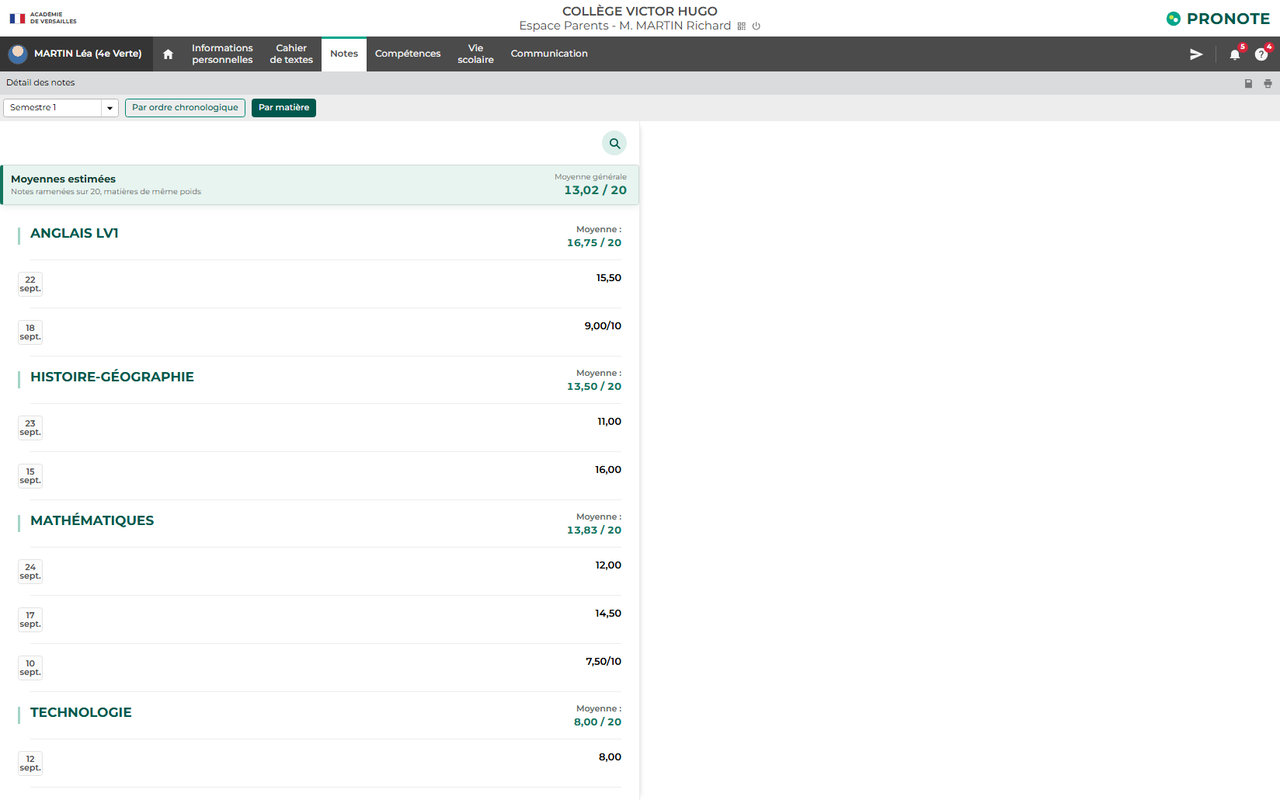
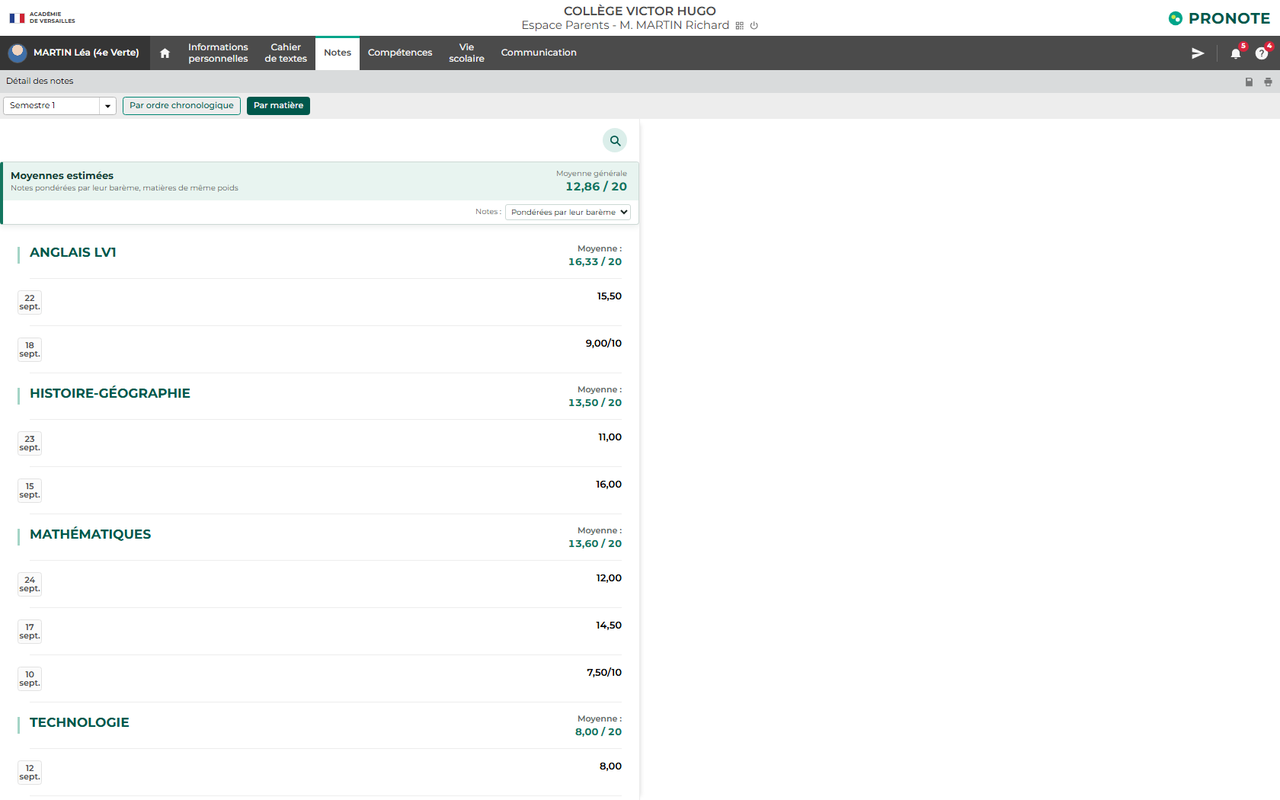
Ajoute le choix de ponderation des notes et passe en 3.0.0

diff --git a/extension/content.js b/extension/content.js
@@ -3,6 +3,9 @@
 
   const ROOT_ID = "pronote-moyennes-extension";
   const INLINE_AVERAGE_CLASS = "pm-inline-average";
+  const WEIGHTING_KEY = "pronote-moyennes.ponderation";
+  const BY_SCALE = "bareme";
+  const EQUAL = "egal";
   const NOTE_LABEL_PATTERN = /Note\s+(?:de\s+l['’])?élève\s*:\s*([0-9]+(?:[,.][0-9]+)?)(?:\s*\/\s*([0-9]+(?:[,.][0-9]+)?))?/i;
   const numberFormatter = new Intl.NumberFormat("fr-FR", {
     minimumFractionDigits: 2,
@@ -11,6 +14,34 @@
 
   let lastSignature = "";
   let refreshTimer = 0;
+
+  // Stockage sur l'origine PRONOTE : evite de demander la permission "storage".
+  function readWeighting() {
+    try {
+      return localStorage.getItem(WEIGHTING_KEY) === EQUAL ? EQUAL : BY_SCALE;
+    } catch {
+      return BY_SCALE;
+    }
+  }
+
+  function writeWeighting(mode) {
+    try {
+      localStorage.setItem(WEIGHTING_KEY, mode);
+    } catch {
+      // Stockage indisponible : le choix vaut pour la session en cours.
+    }
+  }
+
+  function averageOf(notes, mode) {
+    if (mode === EQUAL) {
+      const sum = notes.reduce((total, note) => total + (note.value / note.scale) * 20, 0);
+      return sum / notes.length;
+    }
+
+    const totalValue = notes.reduce((total, note) => total + note.value, 0);
+    const totalScale = notes.reduce((total, note) => total + note.scale, 0);
+    return (totalValue / totalScale) * 20;
+  }
 
   function isVisible(element) {
     const style = getComputedStyle(element);
@@ -70,15 +101,11 @@
       }
 
       const notes = notesBySubject.get(subject) || [];
-      notes.push((value / scale) * 20);
+      notes.push({ value, scale });
       notesBySubject.set(subject, notes);
     }
 
-    return Array.from(notesBySubject, ([subject, notes]) => ({
-      subject,
-      noteCount: notes.length,
-      average: notes.reduce((sum, note) => sum + note, 0) / notes.length,
-    }));
+    return Array.from(notesBySubject, ([subject, notes]) => ({ subject, notes }));
   }
 
   function formatAverage(value) {
@@ -96,7 +123,30 @@
     return element;
   }
 
-  function buildPanel(subjects, generalAverage, showSubjectList) {
+  function buildModeRow(mode, onChange) {
+    const row = createElement("div", "pm-options");
+    const select = createElement("select", "pm-mode-select");
+    select.id = "pm-mode-select";
+
+    for (const [value, text] of [
+      [BY_SCALE, "Pondérées par leur barème"],
+      [EQUAL, "Toutes à poids égal"],
+    ]) {
+      const option = createElement("option", "", text);
+      option.value = value;
+      select.append(option);
+    }
+
+    select.value = mode;
+    select.addEventListener("change", () => onChange(select.value));
+
+    const label = createElement("label", "pm-mode-label", "Notes :");
+    label.htmlFor = select.id;
+    row.append(label, select);
+    return row;
+  }
+
+  function buildPanel(subjects, generalAverage, showSubjectList, mode, onModeChange) {
     const panel = createElement("section", "pm-panel");
     panel.id = ROOT_ID;
     panel.setAttribute("aria-label", "Moyennes estimées");
@@ -109,7 +159,9 @@
       createElement(
         "p",
         "pm-subtitle",
-        "Notes ramenées sur 20, matières de même poids",
+        mode === EQUAL
+          ? "Notes ramenées sur 20, matières de même poids"
+          : "Notes pondérées par leur barème, matières de même poids",
       ),
     );
 
@@ -120,7 +172,7 @@
     );
     header.append(headingGroup, general);
 
-    panel.append(header);
+    panel.append(header, buildModeRow(mode, onModeChange));
 
     if (showSubjectList) {
       const list = createElement("div", "pm-list");
@@ -194,6 +246,13 @@
     lastSignature = "";
   }
 
+  function changeWeighting(mode) {
+    writeWeighting(mode);
+    lastSignature = "";
+    refresh();
+    document.getElementById("pm-mode-select")?.focus();
+  }
+
   function refresh() {
     const tree = findNotesTree();
     if (!tree) {
@@ -201,18 +260,30 @@
       return;
     }
 
-    const subjects = parseVisibleNotes(tree);
-    if (subjects.length === 0) {
+    const parsed = parseVisibleNotes(tree);
+    if (parsed.length === 0) {
       removePanel();
       return;
     }
+
+    const mode = readWeighting();
+    const subjects = parsed.map(({ subject, notes }) => ({
+      subject,
+      noteCount: notes.length,
+      average: averageOf(notes, mode),
+    }));
 
     const generalAverage =
       subjects.reduce((sum, item) => sum + item.average, 0) / subjects.length;
     const isSubjectView = Boolean(
       tree.querySelector('[role="treeitem"][aria-level="1"]'),
     );
-    const signature = JSON.stringify({ subjects, generalAverage, isSubjectView });
+    const signature = JSON.stringify({
+      subjects,
+      generalAverage,
+      isSubjectView,
+      mode,
+    });
     const existingPanel = document.getElementById(ROOT_ID);
     const inlineAverageCount = tree.querySelectorAll(
       `.${INLINE_AVERAGE_CLASS}`,
@@ -231,7 +302,13 @@
     } else {
       removeInlineAverages();
     }
-    const panel = buildPanel(subjects, generalAverage, !isSubjectView);
+    const panel = buildPanel(
+      subjects,
+      generalAverage,
+      !isSubjectView,
+      mode,
+      changeWeighting,
+    );
     const insertionPoint = tree.parentElement || document.querySelector("main");
     insertionPoint?.prepend(panel);
     lastSignature = signature;

diff --git a/extension/content.css b/extension/content.css
@@ -73,6 +73,37 @@
   white-space: nowrap;
 }
 
+#pronote-moyennes-extension .pm-options {
+  display: flex;
+  align-items: center;
+  justify-content: flex-end;
+  gap: 0.5rem;
+  padding: 0.5rem 1rem;
+  border-bottom: 1px solid #e5ebe9;
+}
+
+#pronote-moyennes-extension .pm-options:last-child {
+  border-bottom: 0;
+}
+
+#pronote-moyennes-extension .pm-mode-label {
+  color: var(--pm-muted);
+  font-size: 1rem;
+  line-height: 1.25;
+}
+
+#pronote-moyennes-extension .pm-mode-select {
+  max-width: 100%;
+  padding: 0.2rem 0.3rem;
+  color: #1d2926;
+  font-family: inherit;
+  font-size: 1rem;
+  line-height: 1.25;
+  background: #ffffff;
+  border: 1px solid var(--pm-border);
+  border-radius: 3px;
+}
+
 #pronote-moyennes-extension .pm-list {
   padding: 0 1rem;
 }

diff --git a/tools/store-screenshot.html b/tools/store-screenshot.html
@@ -28,7 +28,7 @@
         color: #000;
       }
 
-      /* Capture headless en 1648x1030 (16:10) puis reduction a 1280x800 : tout tient sans coupure. */
+      /* Capture headless en 1680x1050 (16:10) puis reduction a 1280x800 : tout tient sans coupure. */
       #shot {
         width: 100vw;
         height: 100vh;

diff --git a/store/LISTING.md b/store/LISTING.md
@@ -43,16 +43,19 @@ Si votre établissement affiche déjà les moyennes, cette extension ne vous ser
 
 COMMENT ÇA MARCHE
 
-L'extension lit uniquement les notes déjà affichées dans votre propre page, puis :
-- ramène chaque note sur 20 en tenant compte du barème affiché (une note sur 10 vaut le double) ;
-- calcule la moyenne de chaque matière ;
-- calcule la moyenne générale à partir des moyennes de matières.
+L'extension lit uniquement les notes déjà affichées dans votre propre page, puis calcule la moyenne de chaque matière et la moyenne générale.
+
+Deux méthodes de calcul sont proposées, au choix dans l'encart :
+- « Pondérées par leur barème » (par défaut) : les points obtenus sont rapportés au total des points possibles, donc une note sur 10 compte moitié moins qu'une note sur 20. Avec 15,50/20 et 9,00/10, la moyenne vaut 16,33.
+- « Toutes à poids égal » : chaque note est d'abord ramenée sur 20 et toutes comptent pareil. Avec les mêmes notes, la moyenne vaut 16,75.
+
+Le choix est mémorisé pour votre établissement.
 
 En affichage « Par ordre chronologique », un encart regroupe toutes les moyennes. En affichage « Par matière », la moyenne générale reste en haut et la moyenne de chaque matière s'affiche en face de son intitulé, alignée avec les notes.
 
 IMPORTANT : UNE ESTIMATION, PAS UNE MOYENNE OFFICIELLE
 
-L'extension applique un poids identique à chaque note et à chaque matière. PRONOTE, lui, applique les coefficients définis par les professeurs et l'établissement. Les résultats affichés sont donc une estimation, qui peut différer des moyennes officielles, notamment si des coefficients particuliers sont utilisés.
+L'extension applique un poids identique à chaque matière et ne connaît pas les coefficients des devoirs. PRONOTE, lui, applique les coefficients définis par les professeurs et l'établissement. Les résultats affichés sont donc une estimation, qui peut différer des moyennes officielles, notamment si des coefficients particuliers sont utilisés.
 
 CONFIDENTIALITÉ
 

diff --git a/README.md b/README.md
@@ -78,9 +78,18 @@ Conservez le dossier extrait après l'installation : le navigateur lit directeme
 
 ## Calcul effectué
 
-- Chaque note est convertie sur 20 selon son barème affiché.
+Deux méthodes sont proposées dans l'encart, via la liste **Notes :**.
+
+| Méthode | Principe | Exemple avec 15,50/20 et 9,00/10 |
+| --- | --- | --- |
+| **Pondérées par leur barème** (par défaut) | Les points obtenus sont additionnés, puis rapportés au total des points possibles. Une note sur 10 compte donc moitié moins qu'une note sur 20. | (15,50 + 9) ÷ (20 + 10) × 20 = **16,33** |
+| **Toutes à poids égal** | Chaque note est d'abord ramenée sur 20, puis toutes comptent pareil. | (15,50 + 18) ÷ 2 = **16,75** |
+
+Le choix est mémorisé dans le navigateur, pour l'établissement concerné.
+
+Dans les deux cas :
+
 - Une note sans barème affiché est considérée comme étant sur 20.
-- Toutes les notes d'une matière ont le même poids.
 - Toutes les matières ont le même poids dans la moyenne générale.
 - Les absences et les résultats non numériques sont ignorés.
 
